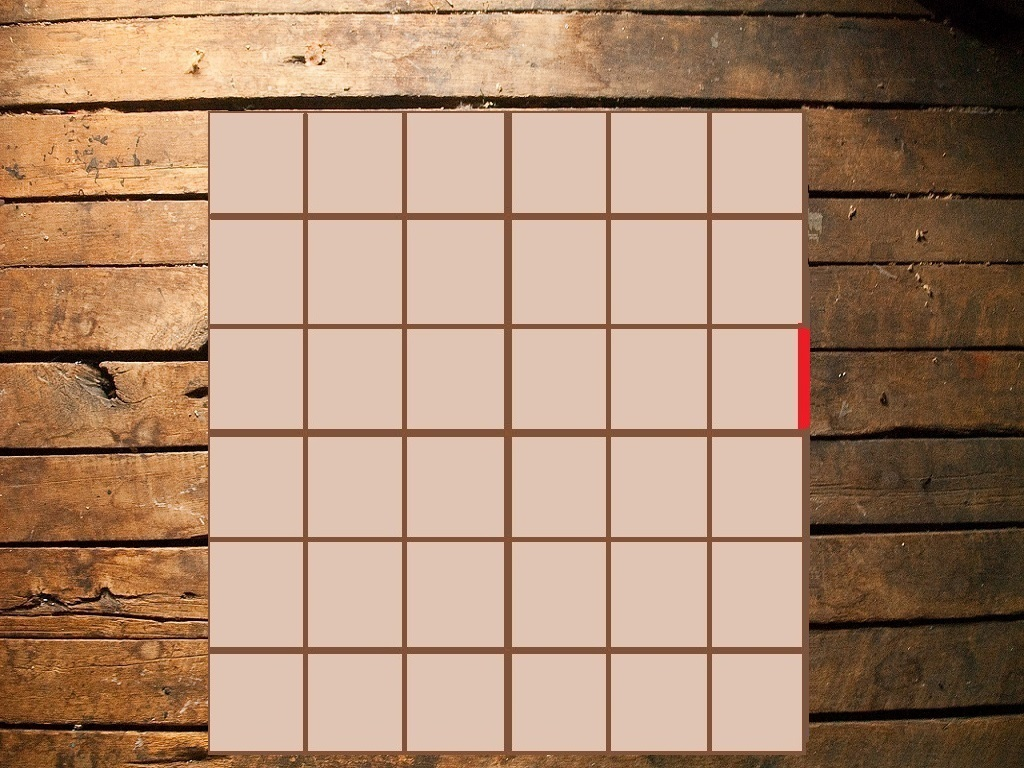
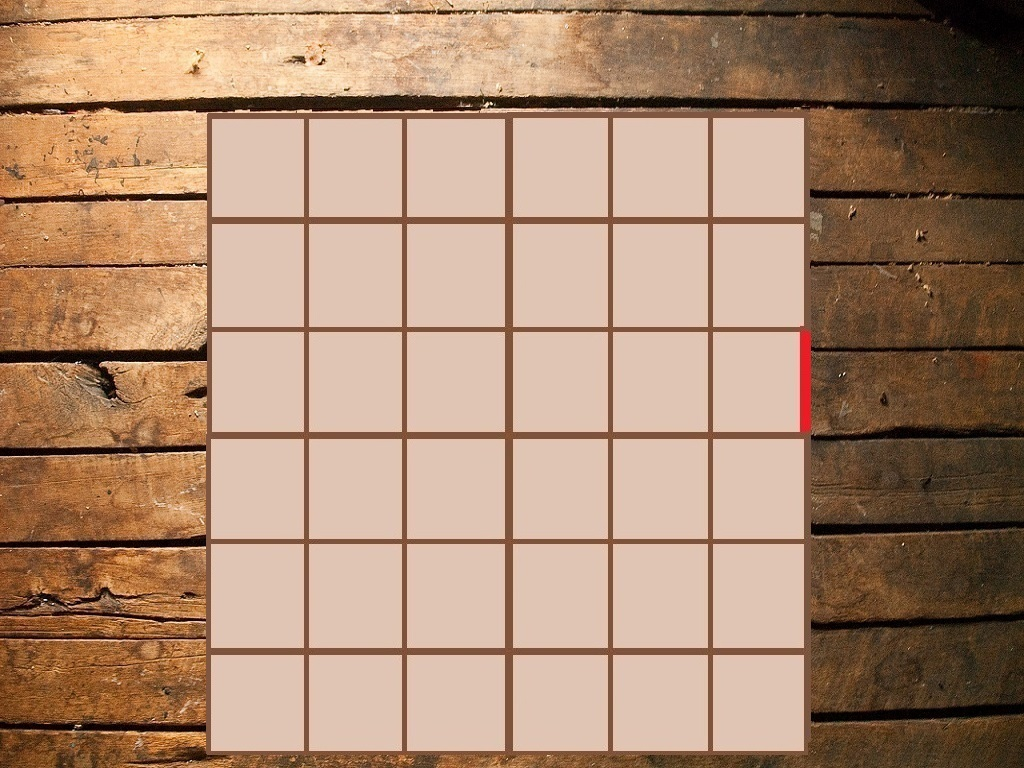
mouseEvents on images (Board)

diff --git a/SaveTango/MainWindow.xaml b/SaveTango/MainWindow.xaml
@@ -19,7 +19,7 @@
             <RowDefinition Height="1*"/>
         </Grid.RowDefinitions>
 
-        <Button x:Name="button_main_newgame" Content="New game"  HorizontalAlignment="Center" Margin="0,0,0,0" VerticalAlignment="Center" Width="200" Height="60" Grid.Row="1" FontWeight="Bold"  FontSize="28" Click="buttonClick_main_newgame"/>
+        <Button x:Name="button_main_newgame" Content="New game"  HorizontalAlignment="Center" Margin="0,0,0,0" VerticalAlignment="Center" Width="200" Height="60" Grid.Row="1" FontWeight="Bold"  FontSize="28" Click="ButtonClick_main_newgame"/>
         <Button x:Name="button_main_highscores" Content="High scores"  HorizontalAlignment="Center" Margin="0,0,0,0" VerticalAlignment="Center" Width="200" Height="60" Grid.Row="2" FontWeight="Bold" FontSize="28"/>
         <Button x:Name="button_main_settings" Content="Settings"  HorizontalAlignment="Center" Margin="0,0,0,0" VerticalAlignment="Center" Width="200" Height="60" Grid.Row="3" FontWeight="Bold" FontSize="28"/>
         <Button x:Name="button_main_exit" Content="Exit" HorizontalAlignment="Center" Margin="0,0,0,0" VerticalAlignment="Center" Width="200" Height="60" Grid.Row="4" FontWeight="Bold" FontSize="28"/>

diff --git a/SaveTango/Board.xaml b/SaveTango/Board.xaml
@@ -10,13 +10,13 @@
         <ImageBrush Opacity="0.9" ImageSource="res/board_background1.jpg"></ImageBrush>
     </Window.Background>
     <StackPanel Orientation="Vertical">
-        <StackPanel Orientation="Horizontal" Height="120">
+        <StackPanel Orientation="Horizontal" Height="116">
             <Label Content="Moves:" Width="132" Height="50" FontSize="30" HorizontalContentAlignment="Center" Margin="150,0,0,0" HorizontalAlignment="Left" />
             <Label Content="Level x"  Width="149" Height="50" FontSize="30" HorizontalContentAlignment="Center" Margin="120,0,0,0"/>
             <Label Content="Time: 00:00" Width="167" Height="50" FontSize="30" HorizontalContentAlignment="Center" Margin="120,0,0,0"/>
         </StackPanel>
         <Canvas Height="600" Width="600">
-            <Image Source="res/2vertical.PNG" Canvas.Left="100" Canvas.Top="300" Height="200" Width="100" HorizontalAlignment="Center"/>
+            <Image Source="res/2vertical.PNG" Canvas.Left="100" Canvas.Top="400" Height="200" Width="100" HorizontalAlignment="Center" MouseDown="OnMouseDown" MouseUp="OnMouseUp" MouseMove="OnMouseMove"/>
         </Canvas>
 
     </StackPanel>

diff --git a/SaveTango/LevelSelection.xaml b/SaveTango/LevelSelection.xaml
@@ -31,7 +31,7 @@
         </Grid.ColumnDefinitions>
         <StackPanel Grid.Column="1"  Grid.Row="1">
             <Button Name="button_level1" Content="1"  FontWeight="Bold" FontSize="50"
-                HorizontalAlignment="Center" Margin="40,0" VerticalAlignment="Top" Width="110" Height="90" />
+                HorizontalAlignment="Center" Margin="40,0" VerticalAlignment="Top" Width="110" Height="90" Click="OnSelectLevelClick" />
             <StackPanel Orientation="Horizontal">
                 <Polygon HorizontalAlignment="Center" Fill="Yellow" Stroke="Black" StrokeThickness=".5" StrokeLineJoin="Round" Width="28" Height="28" Stretch="Fill" Points="9,2 11,7 17,7 12,10 14,15 9,12 4,15 6,10 1,7 7,7"  Name="star11" Margin="26,0,0,0"/>
                 <Polygon HorizontalAlignment="Center" Fill="Yellow" Stroke="Black" StrokeThickness=".5" StrokeLineJoin="Round" Width="28" Height="28" Stretch="Fill" Points="9,2 11,7 17,7 12,10 14,15 9,12 4,15 6,10 1,7 7,7"  Name="star12" Margin="11,0,0,0"/>

diff --git a/SaveTango/Board.xaml.cs b/SaveTango/Board.xaml.cs
@@ -19,9 +19,74 @@ namespace SaveTango
     /// </summary>
     public partial class Board : Window
     {
+        /// <summary>
+        /// le van-e nyomva az egér gombja?
+        /// </summary>
+        private bool pressed = false;
+
+        /// <summary>
+        /// hol kattintottam le az egeret az Image-n belül? mindig lekérhető az x és y propertyje --> pl Image-n belül 7 pixellel lejjebb
+        /// </summary>
+        private Point clickedPoint;
+
         public Board()
         {
             InitializeComponent();
+        }
+
+        /// <summary>
+        /// a tábláról érkező egérkattintás metódusa:
+        /// az egér gombja le van nyomva,
+        /// megkeresi, hogy az Image-n belül hol van az egér,
+        /// és megfogja az objektumot
+        /// </summary>
+        /// <param name="sender">az OnMouseDown metódus object típusú paramétere (automatikus)</param>
+        /// <param name="e">az OnMouseDown metódus MouseButtonEventArgs típusú paramétere (automatikus)</param>
+        private void OnMouseDown(object sender, MouseButtonEventArgs e)
+        {
+            this.pressed = true;
+            this.clickedPoint = Mouse.GetPosition((Image)sender);
+            Mouse.Capture((Image)sender);
+        }
+
+        /// <summary>
+        /// az egér elengedése által indított metódus:
+        /// az egér gombja fel van engedve,
+        /// elengedi a fogott Image-t
+        /// </summary>
+        /// <param name="sender">az OnMouseUp metódus object típusú paramétere (automatikus)</param>
+        /// <param name="e">az OnMouseUp metódus MouseButtonEventArgs típusú paramétere (automatikus)</param>
+        private void OnMouseUp(object sender, MouseButtonEventArgs e)
+        {
+            this.pressed = false;
+            Mouse.Capture(null);
+        }
+
+
+        /// <summary>
+        /// az egér mozgatásakor
+        /// ha meg van nyomva az egér gombja,
+        /// akkor lekéri a xaml-ből a kattintott Image objektum 
+        /// </summary>
+        /// <param name="sender">az OnMouseMove metódus object típusú paramétere (automatikus)</param>
+        /// <param name="e">az OnMouseMove metódus MouseButtonEventArgs típusú paramétere (automatikus)</param>
+        private void OnMouseMove(object sender, MouseEventArgs e)
+        {
+            if (pressed)
+            {
+                double top = Canvas.GetTop((Image)sender) + Mouse.GetPosition((Image)sender).Y - clickedPoint.Y; //mivel a téglalapba nem mindig a tetején kattintok
+                //Canvas.SetTop((Image)sender, top); //állítsd be az objektum felső koordinátáját + beadom neki a top változót
+                double left = Canvas.GetLeft((Image)sender) + Mouse.GetPosition((Image)sender).X - clickedPoint.X; //mivel a téglalapba nem mindig a tetején kattintok
+                Canvas.SetLeft((Image)sender, left);
+            }
+        }
+
+        Dictionary<Image, Block> imageBlockDictionary;
+
+        private void WhichBlockIsMyImage()
+        {
+            imageBlockDictionary = new Dictionary<Image, Block>();
+            
         }
     }
 }

diff --git a/SaveTango/Model/Block.cs b/SaveTango/Model/Block.cs
@@ -1,9 +1,10 @@
 using System;
 using System.Collections.Generic;
-using System.Drawing;
 using System.Linq;
 using System.Text;
 using System.Threading.Tasks;
+using System.Windows.Controls;
+using System.Windows.Media.Imaging;
 
 namespace SaveTango.Model
 {
@@ -45,21 +46,69 @@ namespace SaveTango.Model
             set { blockImage = value; }
         }
 
-        private int canvasRowNumber;
+        private int initialCanvasTop;
 
-        public int CanvasRowNumber
+        public int InitialCanvasTop
         {
-            get { return canvasRowNumber; }
-            set { canvasRowNumber = value; }
+            get { return initialCanvasTop; }
+            set { initialCanvasTop = value; }
         }
 
-        private int canvasColumnNummer;
 
-        public int CanvasColumnNummer
+        private int initialCanvasLeft;
+
+        public int InitialCanvasLeft
         {
-            get { return canvasColumnNummer; }
-            set { canvasColumnNummer = value; }
+            get { return initialCanvasLeft; }
+            set { initialCanvasLeft = value; }
         }
 
+
+
+        /// <summary>
+        /// A Block osztály konstruktora három paraméterrel
+        /// </summary>
+        /// <param name="vertical">függőlegesen áll-e a blokk?</param>
+        /// <param name="blockLength">milyen hosszú a blokk?</param>
+        /// <param name="blockImage">a blokkhoz tartozó kép</param>
+        public Block(bool vertical, int blockLength, int initialCanvasTop, int initialCanvasLeft)
+        {
+            this.vertical = vertical;
+            this.blockLength = blockLength;
+            this.blockImage = this.WhichImageGoesToWhichBlock();
+            this.initialCanvasTop = initialCanvasTop;
+            this.initialCanvasLeft = initialCanvasLeft;
+        }
+
+        private Image WhichImageGoesToWhichBlock()
+        {
+            Image img = new Image();
+            Uri uri;
+            if (vertical & blockLength ==2)
+            {
+                uri = new Uri("res/2vertical.PNG");
+                img.Source = new BitmapImage(uri);
+                return img;
+
+            }
+            else if (vertical & blockLength == 3)
+            {
+                uri = new Uri("res/3vertical.PNG");
+                img.Source = new BitmapImage(uri);
+                return img;
+            }
+            else if (!vertical & blockLength == 2)
+            {
+                uri = new Uri("res/2horizontal.PNG");
+                img.Source = new BitmapImage(uri);
+                return img;
+            }
+            else
+            {
+                uri = new Uri("res/3horizontal.PNG");
+                img.Source = new BitmapImage(uri);
+                return img;
+            }
+        }
     }
 }

diff --git a/SaveTango/MainWindow.xaml.cs b/SaveTango/MainWindow.xaml.cs
@@ -25,19 +25,18 @@ namespace SaveTango
         public MainWindow()
         {
             InitializeComponent();
-            
         }
-       
-        
+
+
         /// <summary>
         /// A gomb a szintválasztó ablakot nyitja oly módon, hogy az a main window ablakban nyílik meg.
         /// </summary>
-        /// <param name="sender"></param>
-        /// <param name="e"></param>
-        private void buttonClick_main_newgame(object sender, RoutedEventArgs e)
+        /// <param name="sender">a ButtonClick_main_newgamen metódus object típusú paramétere (automatikus)</param>
+        /// <param name="e">a ButtonClick_main_newgame metódus MouseButtonEventArgs típusú paramétere (automatikus)</param>
+        private void ButtonClick_main_newgame(object sender, RoutedEventArgs e)
         {
             LevelSelection lvlSelWindow = new LevelSelection();
-            lvlSelWindow.Owner = Application.Current.MainWindow; 
+            lvlSelWindow.Owner = Application.Current.MainWindow;
             lvlSelWindow.WindowStartupLocation = WindowStartupLocation.CenterOwner;
             lvlSelWindow.Show();
             //this.Close();

diff --git a/SaveTango/ViewModel/BoardWindowViewModel.cs b/SaveTango/ViewModel/BoardWindowViewModel.cs
@@ -1,13 +1,35 @@
-using System;
+using SaveTango.Model;
+using System;
 using System.Collections.Generic;
+using System.Collections.ObjectModel;
+using System.Drawing;
+using System.IO;
 using System.Linq;
 using System.Text;
 using System.Threading.Tasks;
+using System.Windows.Media.Imaging;
 
 namespace SaveTango.ViewModel
 {
     class BoardWindowViewModel
     {
+        private ObservableCollection<Block> gameLevelSetup;
+
+        public BoardWindowViewModel()
+        {
+            this.gameLevelSetup = new ObservableCollection<Block> {
+                new Block(true, 2,0,0),
+                new Block(true, 2,0,300),
+                new Block(true, 2,300,0),
+                new Block(true, 3,0,200),
+                new Block(true, 3,200,500),
+                new Block(false, 2,0,400),
+                new Block(false, 2,100,400),
+                new Block(false, 3,300,100),
+                new Block(false, 2,500,100)
+
+            };
+        }
 
     }
 }

diff --git a/SaveTango/LevelSelection.xaml.cs b/SaveTango/LevelSelection.xaml.cs
@@ -19,9 +19,19 @@ namespace SaveTango
     /// </summary>
     public partial class LevelSelection : Window
     {
+        
+
         public LevelSelection()
         {
             InitializeComponent();
+        }
+
+        private void OnSelectLevelClick(object sender, RoutedEventArgs e)
+        {
+            Board boardWindow = new Board();
+            boardWindow.Owner = Application.Current.MainWindow;
+            boardWindow.WindowStartupLocation = WindowStartupLocation.CenterOwner;
+            boardWindow.Show();
         }
     }
 }

diff --git a/SaveTango/Model/Bindable.cs b/SaveTango/Model/Bindable.cs
@@ -6,9 +6,10 @@ using System.Text;
 using System.Threading.Tasks;
 
 namespace SaveTango.Model
-{   /// <summary>
-/// A class az adatkötésekhez szükséges OnPropertyChanged metódust szolgáltatja.
-/// </summary>
+{
+    /// <summary>
+    /// A class az adatkötésekhez szükséges OnPropertyChanged metódust szolgáltatja.
+    /// </summary>
     public class Bindable : INotifyPropertyChanged
     {
         public event PropertyChangedEventHandler PropertyChanged;
